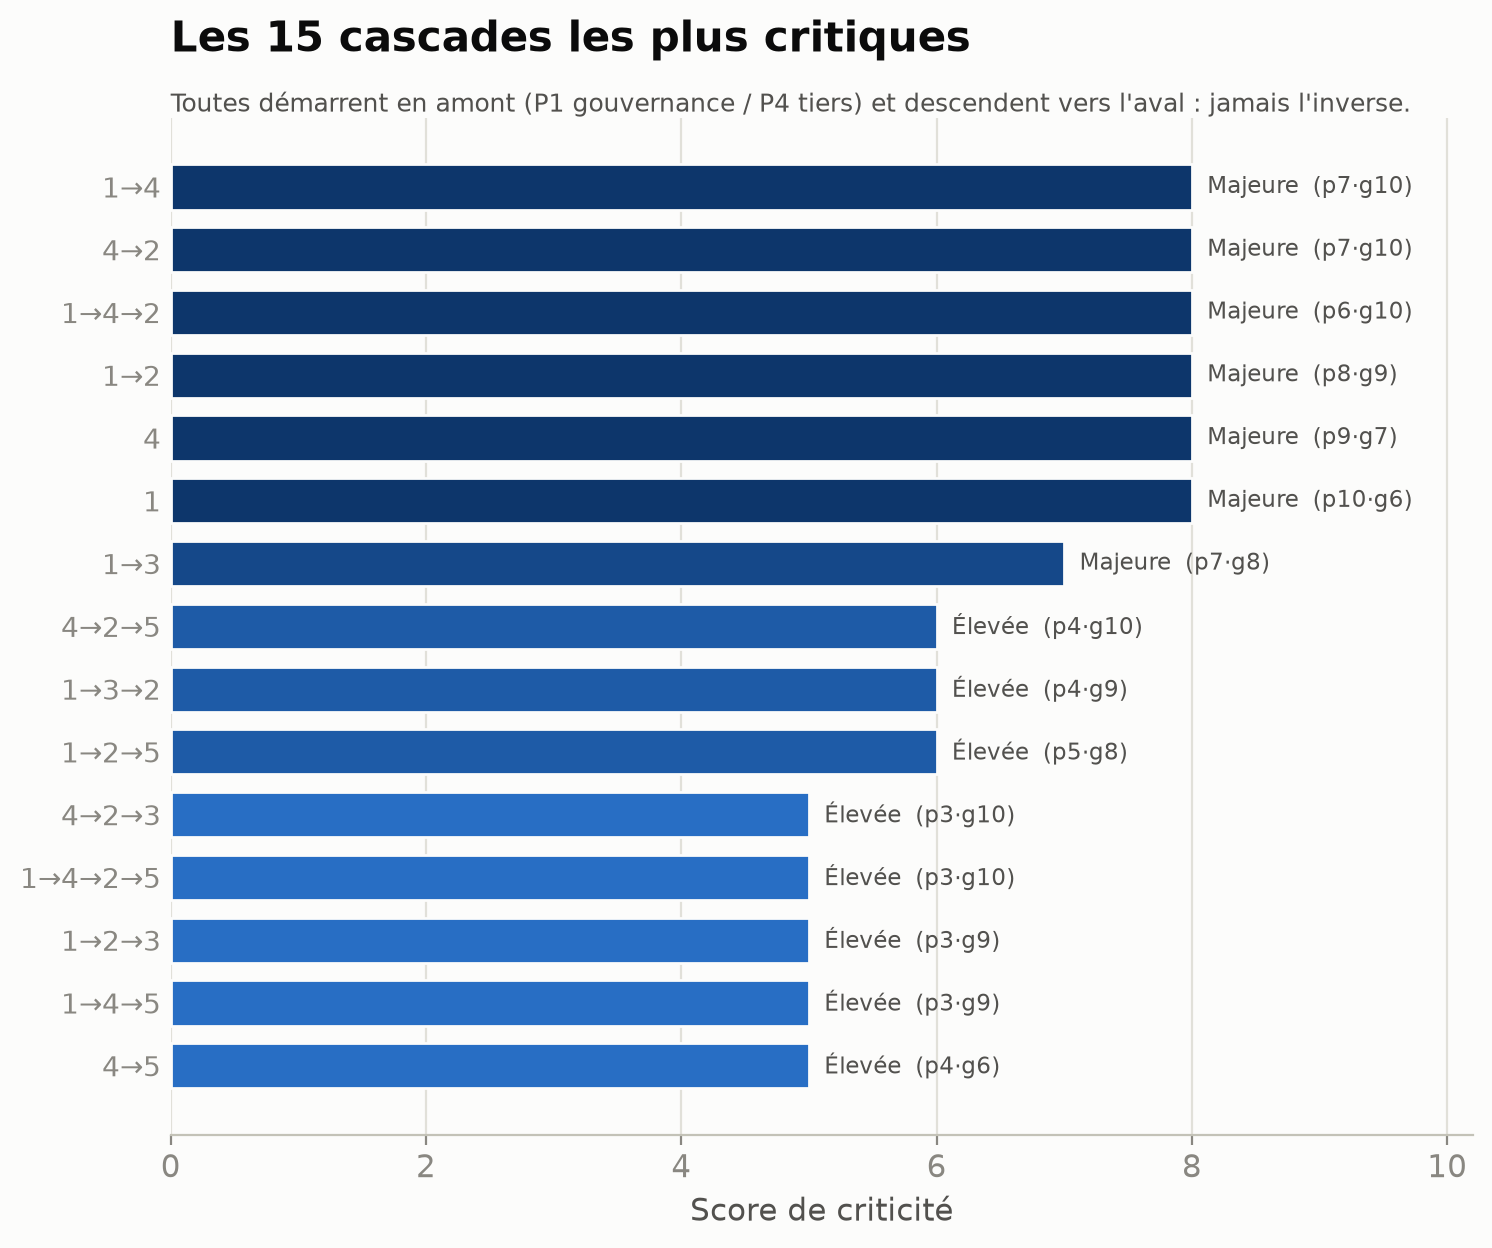
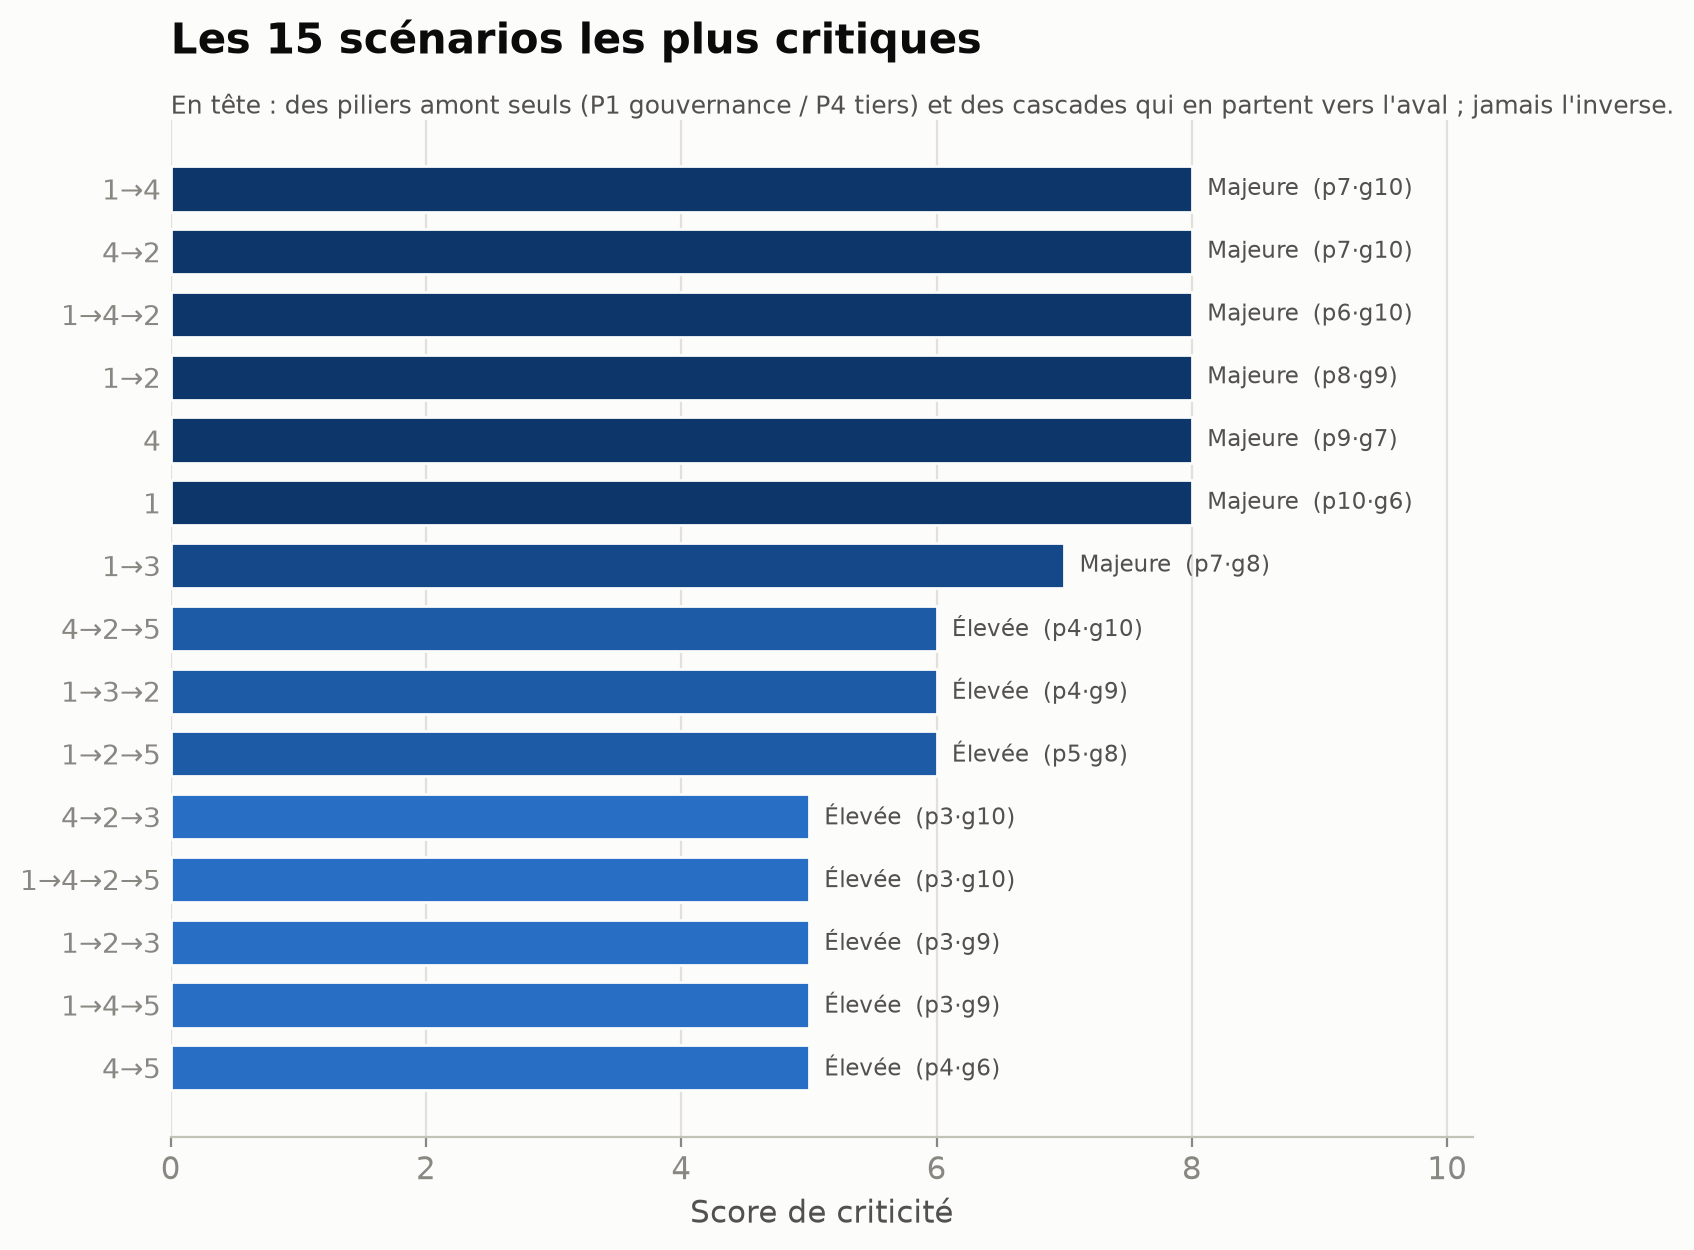
Cascade : source unique du moteur (cascade_model.py) + corrections d'audit
Hygiene des scripts de la cascade qualitative.

Deduplication : ROOT / TRANS / GBASE et le bareme (proba/gravite/criticite,
constantes de forme, labels) etaient copies-colles dans quatre scripts, avec
risque de desynchronisation silencieuse. Tout est desormais dans
cascade_model.py, importe par build_cascade_workbook, build_figures,
build_tree_figure et sensitivity_analysis. Les noms courts de piliers
(labels de figures) restent locaux car specifiques a la presentation.

Corrections factuelles :
- docstring "1->2 Extreme" corrige en "Majeure" (la criticite vaut 8, pas >=9).
- comptage "326 scenarios" corrige en 325 (l'ensemble vide n'est pas note),
  a trois endroits ; les "325" deja corrects sont conserves.
- figure F4 : "15 cascades" devient "15 scenarios" (le haut du classement
  contient des piliers seuls, qui ne sont pas des cascades), caption ajustee.
- retire la mention "tuteur" du docstring de l'arbre.
- remplace vert=False (deprecie matplotlib 3.11) par orientation="horizontal".

Comportement inchange : sorties identiques (325 scenarios ; sensibilite
90/91 %, 55,3 %, 84 % ; classeur et figures regeneres a l'identique).

diff --git a/exploratory/cascade_qualitative/cascade_model.py b/exploratory/cascade_qualitative/cascade_model.py
@@ -1,0 +1,80 @@
+# -*- coding: utf-8 -*-
+"""Source UNIQUE du jugement d'expert et du bareme de scores de la cascade
+qualitative DORA.
+
+Auparavant ROOT / TRANS / GBASE etaient copies-colles dans quatre scripts
+(build_cascade_workbook, build_figures, build_tree_figure, sensitivity_analysis),
+avec un risque de desynchronisation silencieuse. Tout est desormais defini ici,
+une seule fois ; les scripts importent depuis ce module.
+"""
+
+PILIERS = {
+    1: "Gouvernance & gestion du risque TIC",
+    2: "Gestion / classification / notification des incidents",
+    3: "Tests de résilience opérationnelle (TLPT)",
+    4: "Gestion du risque lié aux tiers ICT",
+    5: "Partage d'informations sur les cybermenaces",
+}
+N = len(PILIERS)
+
+# --- jugement ancré DORA / mémoire ----------------------------------------
+ROOT = {1: 1.00, 4: 0.90, 2: 0.60, 3: 0.50, 5: 0.30}     # amorce d'une cascade
+TRANS = {                                                # « i entraîne j » dirigé
+    1: {2: 0.80, 3: 0.70, 4: 0.70, 5: 0.40},
+    2: {1: 0.20, 3: 0.40, 4: 0.30, 5: 0.60},
+    3: {1: 0.30, 2: 0.50, 4: 0.30, 5: 0.30},
+    4: {1: 0.20, 2: 0.80, 3: 0.30, 5: 0.40},
+    5: {1: 0.10, 2: 0.20, 3: 0.20, 4: 0.20},
+}
+GBASE = {4: 7, 1: 6, 2: 4, 3: 3, 5: 1}                    # gravité de base d'un pilier
+
+# --- constantes de forme du barème (les moins ancrées : choix de modélisation) ---
+KFAC, AMPB, AMPS = 0.40, 0.50, 0.80   # étendue (part des autres piliers) ; amplification (base, pente)
+
+# --- labels de sortie -------------------------------------------------------
+PROBA_LAB = ["Très rare", "Rare", "Possible", "Probable", "Très probable"]
+GRAV_LAB = ["Négligeable", "Mineure", "Modérée", "Majeure", "Critique"]
+CRIT_LAB = ["Faible", "Modérée", "Élevée", "Majeure", "Extrême"]
+
+
+def lvl(score):
+    """Niveau 0..4 (bornes 2/4/6/8) pour l'échelle de couleurs et les labels."""
+    if score is None:
+        return None
+    return 0 if score <= 2 else 1 if score <= 4 else 2 if score <= 6 else 3 if score <= 8 else 4
+
+
+def proba_score(order):
+    """Cotation ordinale /10 de la vraisemblance de la chaîne ordonnée (dépend de l'ordre).
+
+    NB : cotation ordinale qui classe les ordres, pas une probabilité normalisée.
+    """
+    if not order:
+        return None
+    prop = ROOT[order[0]]
+    for a, b in zip(order, order[1:]):
+        prop *= TRANS[a][b]
+    return max(1, min(10, round(10 * prop)))
+
+
+def gravite_score(order):
+    """Étendue des dégâts amplifiée/amortie par la cohérence de l'ordre (dépend de l'ordre)."""
+    if not order:
+        return None
+    bases = [GBASE[p] for p in order]
+    etendue = min(10, max(bases) + KFAC * (sum(bases) - max(bases)))
+    if len(order) <= 1:
+        raw = etendue
+    else:
+        links = [TRANS[a][b] for a, b in zip(order, order[1:])]
+        raw = etendue * (AMPB + AMPS * (sum(links) / len(links)))
+    return max(1, min(10, round(raw)))
+
+
+def crit_score(p, g):
+    """Criticité = round(sqrt(p*g)).
+
+    La racine ramène le produit p*g (le RPN de l'AMDEC) sur l'échelle 1..10 ; le
+    CLASSEMENT est celui du produit (racine monotone), seule l'échelle change.
+    """
+    return None if (p is None or g is None) else round((p * g) ** 0.5)

diff --git a/exploratory/cascade_qualitative/build_cascade_workbook.py b/exploratory/cascade_qualitative/build_cascade_workbook.py
@@ -8,7 +8,7 @@ gouvernance → conséquences) est un vrai emballement systémique → plus PROB
 ET plus GRAVE. Le même ensemble de piliers pris à l'envers est peu probable et,
 s'il survient, bien moins grave (défaillances quasi indépendantes, non compoundées).
 
-=> L'ordre change fortement le verdict (ex. 1→2 « Extrême » vs 2→1 « Faible »).
+=> L'ordre change fortement le verdict (ex. 1→2 « Majeure » vs 2→1 « Faible »).
 
 Résultat exprimé en CATÉGORIES (qualitatif), pas en nombres bruts :
   Proba    : Très rare · Rare · Possible · Probable · Très probable
@@ -18,73 +18,20 @@ Les scores /10 restent en colonnes d'appoint (grises) juste pour trier.
 """
 
 import os
+import sys
 from itertools import combinations, permutations
 from openpyxl import Workbook
 from openpyxl.utils import get_column_letter
 from openpyxl.styles import Font, PatternFill, Alignment, Border, Side
 
-PILIERS = {
-    1: "Gouvernance & gestion du risque TIC",
-    2: "Gestion / classification / notification des incidents",
-    3: "Tests de résilience opérationnelle (TLPT)",
-    4: "Gestion du risque lié aux tiers ICT",
-    5: "Partage d'informations sur les cybermenaces",
-}
-N = len(PILIERS)
+# --- jugement et barème : source unique (cascade_model.py) ------------------
+sys.path.insert(0, os.path.dirname(os.path.abspath(__file__)))
+from cascade_model import (PILIERS, N,
+                           PROBA_LAB, GRAV_LAB, CRIT_LAB,
+                           lvl, proba_score, gravite_score, crit_score)
 
-# --- jugement ancré DORA / mémoire ----------------------------------------
-ROOT = {1: 1.00, 4: 0.90, 2: 0.60, 3: 0.50, 5: 0.30}     # amorce d'une cascade
-TRANS = {                                                # « i entraîne j » dirigé
-    1: {2: 0.80, 3: 0.70, 4: 0.70, 5: 0.40},
-    2: {1: 0.20, 3: 0.40, 4: 0.30, 5: 0.60},
-    3: {1: 0.30, 2: 0.50, 4: 0.30, 5: 0.30},
-    4: {1: 0.20, 2: 0.80, 3: 0.30, 5: 0.40},
-    5: {1: 0.10, 2: 0.20, 3: 0.20, 4: 0.20},
-}
-GBASE = {4: 7, 1: 6, 2: 4, 3: 3, 5: 1}                    # gravité de base d'un pilier
-
-# --- labels ----------------------------------------------------------------
-PROBA_LAB = ["Très rare", "Rare", "Possible", "Probable", "Très probable"]
-GRAV_LAB = ["Négligeable", "Mineure", "Modérée", "Majeure", "Critique"]
-CRIT_LAB = ["Faible", "Modérée", "Élevée", "Majeure", "Extrême"]
-# vert -> rouge
+# vert -> rouge (échelle de couleurs, spécifique au classeur)
 LEVEL_FILL = ["C6EFCE", "E2EFDA", "FFEB9C", "FCE4D6", "FFC7CE"]
-
-
-def lvl(score):
-    if score is None:
-        return None
-    return 0 if score <= 2 else 1 if score <= 4 else 2 if score <= 6 else 3 if score <= 8 else 4
-
-
-def proba_score(order):
-    """Coherence causale de la chaîne ordonnée -> /10. Dépend de l'ordre."""
-    if not order:
-        return None
-    prop = ROOT[order[0]]
-    for a, b in zip(order, order[1:]):
-        prop *= TRANS[a][b]
-    return max(1, min(10, round(10 * prop)))
-
-
-def gravite_score(order):
-    """Étendue des dégâts AMPLIFIÉE/AMORTIE par la cohérence de l'ordre. Dépend de l'ordre."""
-    if not order:
-        return None
-    bases = [GBASE[p] for p in order]
-    etendue = min(10, max(bases) + 0.40 * (sum(bases) - max(bases)))
-    if len(order) <= 1:
-        raw = etendue
-    else:
-        links = [TRANS[a][b] for a, b in zip(order, order[1:])]
-        coherence = sum(links) / len(links)          # 0..1
-        amplification = 0.5 + 0.8 * coherence         # 0.5 (incohérent) .. 1.3 (cohérent)
-        raw = etendue * amplification
-    return max(1, min(10, round(raw)))
-
-
-def crit_score(p, g):
-    return None if (p is None or g is None) else round((p * g) ** 0.5)   # moyenne géométrique
 
 
 # --- styles ----------------------------------------------------------------
@@ -219,7 +166,7 @@ for item in notes:
 js.column_dimensions["A"].width = 115
 
 # ==========================================================================
-# Feuille 3 : Classement (326 scénarios triés par Criticité décroissante)
+# Feuille 3 : Classement (325 scénarios notés triés par Criticité décroissante)
 # ==========================================================================
 cl = wb.create_sheet("Classement", 1)
 cl["A1"] = "Scénarios classés par Criticité décroissante (l'ordre compte)"

diff --git a/exploratory/cascade_qualitative/build_figures.py b/exploratory/cascade_qualitative/build_figures.py
@@ -7,16 +7,18 @@ Chaque figure isole UN « message caché » du modèle conceptuel :
   F1 : L'ordre renverse le verdict          (asymétrie i→j vs j→i)
   F2 : Jamais très probable ET très grave    (plafond de criticité)
   F3 : Mêmes piliers, autre histoire         (amplitude du ré-ordonnancement)
-  F4 : Les cascades les plus critiques        (classement, toutes amont→aval)
+  F4 : Les scénarios les plus critiques       (classement : piliers amont seuls + cascades)
   F5 : Là où la cascade démarre décide        (pilier-racine → profil de criticité)
 
-Le moteur de score (ROOT / TRANS / GBASE) est RÉ-DÉCLARÉ ici à l'identique de
-build_cascade_workbook.py : les figures sont ainsi reproductibles seules, sans
-ré-écrire le classeur. Toute modification du jugement doit rester synchrone.
+Le moteur de score (ROOT / TRANS / GBASE) et le barème sont importés de
+cascade_model.py, source unique partagée avec le classeur et la sensibilité :
+aucune re-déclaration, donc aucun risque de désynchronisation. Seuls les noms
+courts des piliers (labels de figures) restent locaux.
 """
 
 from itertools import combinations, permutations
 import os
+import sys
 
 import matplotlib as mpl
 import matplotlib.pyplot as plt
@@ -33,50 +35,10 @@ PILIERS = {
 }
 N = len(PILIERS)
 
-ROOT = {1: 1.00, 4: 0.90, 2: 0.60, 3: 0.50, 5: 0.30}
-TRANS = {
-    1: {2: 0.80, 3: 0.70, 4: 0.70, 5: 0.40},
-    2: {1: 0.20, 3: 0.40, 4: 0.30, 5: 0.60},
-    3: {1: 0.30, 2: 0.50, 4: 0.30, 5: 0.30},
-    4: {1: 0.20, 2: 0.80, 3: 0.30, 5: 0.40},
-    5: {1: 0.10, 2: 0.20, 3: 0.20, 4: 0.20},
-}
-GBASE = {4: 7, 1: 6, 2: 4, 3: 3, 5: 1}
-
-CRIT_LAB = ["Faible", "Modérée", "Élevée", "Majeure", "Extrême"]
-
-
-def lvl(score):
-    if score is None:
-        return None
-    return 0 if score <= 2 else 1 if score <= 4 else 2 if score <= 6 else 3 if score <= 8 else 4
-
-
-def proba_score(order):
-    if not order:
-        return None
-    prop = ROOT[order[0]]
-    for a, b in zip(order, order[1:]):
-        prop *= TRANS[a][b]
-    return max(1, min(10, round(10 * prop)))
-
-
-def gravite_score(order):
-    if not order:
-        return None
-    bases = [GBASE[p] for p in order]
-    etendue = min(10, max(bases) + 0.40 * (sum(bases) - max(bases)))
-    if len(order) <= 1:
-        raw = etendue
-    else:
-        links = [TRANS[a][b] for a, b in zip(order, order[1:])]
-        coherence = sum(links) / len(links)
-        raw = etendue * (0.5 + 0.8 * coherence)
-    return max(1, min(10, round(raw)))
-
-
-def crit_score(p, g):
-    return None if (p is None or g is None) else round((p * g) ** 0.5)
+# --- jugement et barème : source unique (cascade_model.py) ------------------
+sys.path.insert(0, os.path.dirname(os.path.abspath(__file__)))
+from cascade_model import (ROOT, TRANS, GBASE, CRIT_LAB,
+                           lvl, proba_score, gravite_score, crit_score)
 
 
 # ---------------------------------------------------------------- construction des records
@@ -272,10 +234,10 @@ def fig4():
     ax.set_yticks(y); ax.set_yticklabels(labels, fontsize=10, fontfamily="DejaVu Sans")
     ax.set_xlim(0, 10.2)
     ax.set_xlabel("Score de criticité", color=INK2)
-    ax.set_title("Les 15 cascades les plus critiques", fontsize=15, fontweight="bold",
+    ax.set_title("Les 15 scénarios les plus critiques", fontsize=15, fontweight="bold",
                  color=INK, pad=24, loc="left")
-    ax.text(0, len(top) + 0.2, "Toutes démarrent en amont (P1 gouvernance / P4 tiers) "
-            "et descendent vers l'aval : jamais l'inverse.", fontsize=9, color=INK2)
+    ax.text(0, len(top) + 0.2, "En tête : des piliers amont seuls (P1 gouvernance / P4 tiers) "
+            "et des cascades qui en partent vers l'aval ; jamais l'inverse.", fontsize=9, color=INK2)
     for s in ("top", "right", "left"):
         ax.spines[s].set_visible(False)
     ax.tick_params(axis="y", length=0)

diff --git a/exploratory/cascade_qualitative/sensitivity_analysis.py b/exploratory/cascade_qualitative/sensitivity_analysis.py
@@ -13,12 +13,13 @@ On ne le nie pas : on le TESTE.
   F11 : Tornado                                        : quelle hypothèse PORTE le résultat ?
 
 Perturbation Monte-Carlo : chaque coefficient est tiré autour de sa valeur de base
-(± une marge), sur N tirages ; on recalcule les 326 scénarios à chaque tirage et on
+(± une marge), sur N tirages ; on recalcule les 325 scénarios à chaque tirage et on
 regarde si les CONCLUSIONS QUALITATIVES tiennent (pas les scores exacts).
 """
 
 from itertools import combinations, permutations
 import os
+import sys
 
 import matplotlib as mpl
 import matplotlib.pyplot as plt
@@ -34,16 +35,10 @@ PILIERS = {
     5: "Partage d'informations",
 }
 N = 5
-ROOT0 = {1: 1.00, 4: 0.90, 2: 0.60, 3: 0.50, 5: 0.30}
-TRANS0 = {
-    1: {2: 0.80, 3: 0.70, 4: 0.70, 5: 0.40},
-    2: {1: 0.20, 3: 0.40, 4: 0.30, 5: 0.60},
-    3: {1: 0.30, 2: 0.50, 4: 0.30, 5: 0.30},
-    4: {1: 0.20, 2: 0.80, 3: 0.30, 5: 0.40},
-    5: {1: 0.10, 2: 0.20, 3: 0.20, 4: 0.20},
-}
-GBASE0 = {4: 7, 1: 6, 2: 4, 3: 3, 5: 1}
-KFAC0, AMPB0, AMPS0 = 0.40, 0.50, 0.80         # étendue / amplification (base, pente)
+# --- jugement et barème de base : source unique (cascade_model.py) ----------
+sys.path.insert(0, os.path.dirname(os.path.abspath(__file__)))
+from cascade_model import (ROOT as ROOT0, TRANS as TRANS0, GBASE as GBASE0,
+                           KFAC as KFAC0, AMPB as AMPB0, AMPS as AMPS0)
 
 ORDERS = [o for k in range(1, N + 1)
           for subset in combinations(range(1, N + 1), k)
@@ -234,7 +229,7 @@ def fig8():
     y = np.arange(len(top15))
     data = [rank_hist[o] for o in top15]           # top15 est déjà trié (meilleur en 0)
     fig, ax = plt.subplots(figsize=(8.6, 6.8))
-    bp = ax.boxplot(data, vert=False, positions=y, widths=0.6, patch_artist=True,
+    bp = ax.boxplot(data, orientation="horizontal", positions=y, widths=0.6, patch_artist=True,
                     showfliers=False)
     for box in bp["boxes"]:
         box.set(facecolor="#cfe0f7", edgecolor=BLUE, linewidth=1.1)
@@ -300,7 +295,7 @@ def fig10():
         ax.text(v, c / NDRAW * 100 + 1.2, f"{c/NDRAW:.0%}", ha="center", fontsize=8.5, color=INK2)
     ax.text(0.02, 0.9, "Baseline : max = 8 (Majeure)", transform=ax.transAxes,
             fontsize=9, color=INK2)
-    ax.set_xlabel("Criticité MAXIMALE atteinte parmi les 326 scénarios (par tirage)", color=INK2)
+    ax.set_xlabel("Criticité MAXIMALE atteinte parmi les 325 scénarios (par tirage)", color=INK2)
     ax.set_ylabel("Part des tirages  (%)", color=INK2)
     ax.set_xticks(range(int(vals.min()), 11))
     for s in ("top", "right"):

diff --git a/exploratory/cascade_qualitative/build_tree_figure.py b/exploratory/cascade_qualitative/build_tree_figure.py
@@ -3,7 +3,7 @@
 """
 F12 : L'arbre récursif des ordres.
 
-Illustre la formalisation du tuteur : la probabilité d'un ordre de n piliers se
+Illustre la formalisation récursive : la probabilité d'un ordre de n piliers se
 CONSTRUIT récursivement à partir du préfixe de (n-1) piliers, en multipliant par
 la transition ajoutée.  On le montre sur l'exemple à 3 piliers (6 feuilles), avec
 les VRAIES valeurs ROOT / TRANS du modèle.  Le calcul reste identique à
@@ -15,20 +15,15 @@ build_cascade_workbook.py : l'arbre n'est qu'une relecture, pas un nouveau modè
 
 from itertools import permutations
 import os
+import sys
 
 import matplotlib as mpl
 import matplotlib.pyplot as plt
 from matplotlib.patches import FancyBboxPatch
 
-# ---------------------------------------------------------------- moteur (miroir du .xlsx)
-ROOT = {1: 1.00, 4: 0.90, 2: 0.60, 3: 0.50, 5: 0.30}
-TRANS = {
-    1: {2: 0.80, 3: 0.70, 4: 0.70, 5: 0.40},
-    2: {1: 0.20, 3: 0.40, 4: 0.30, 5: 0.60},
-    3: {1: 0.30, 2: 0.50, 4: 0.30, 5: 0.30},
-    4: {1: 0.20, 2: 0.80, 3: 0.30, 5: 0.40},
-    5: {1: 0.10, 2: 0.20, 3: 0.20, 4: 0.20},
-}
+# --- ROOT / TRANS : source unique (cascade_model.py) ------------------------
+sys.path.insert(0, os.path.dirname(os.path.abspath(__file__)))
+from cascade_model import ROOT, TRANS
 
 
 def proba_raw(order):